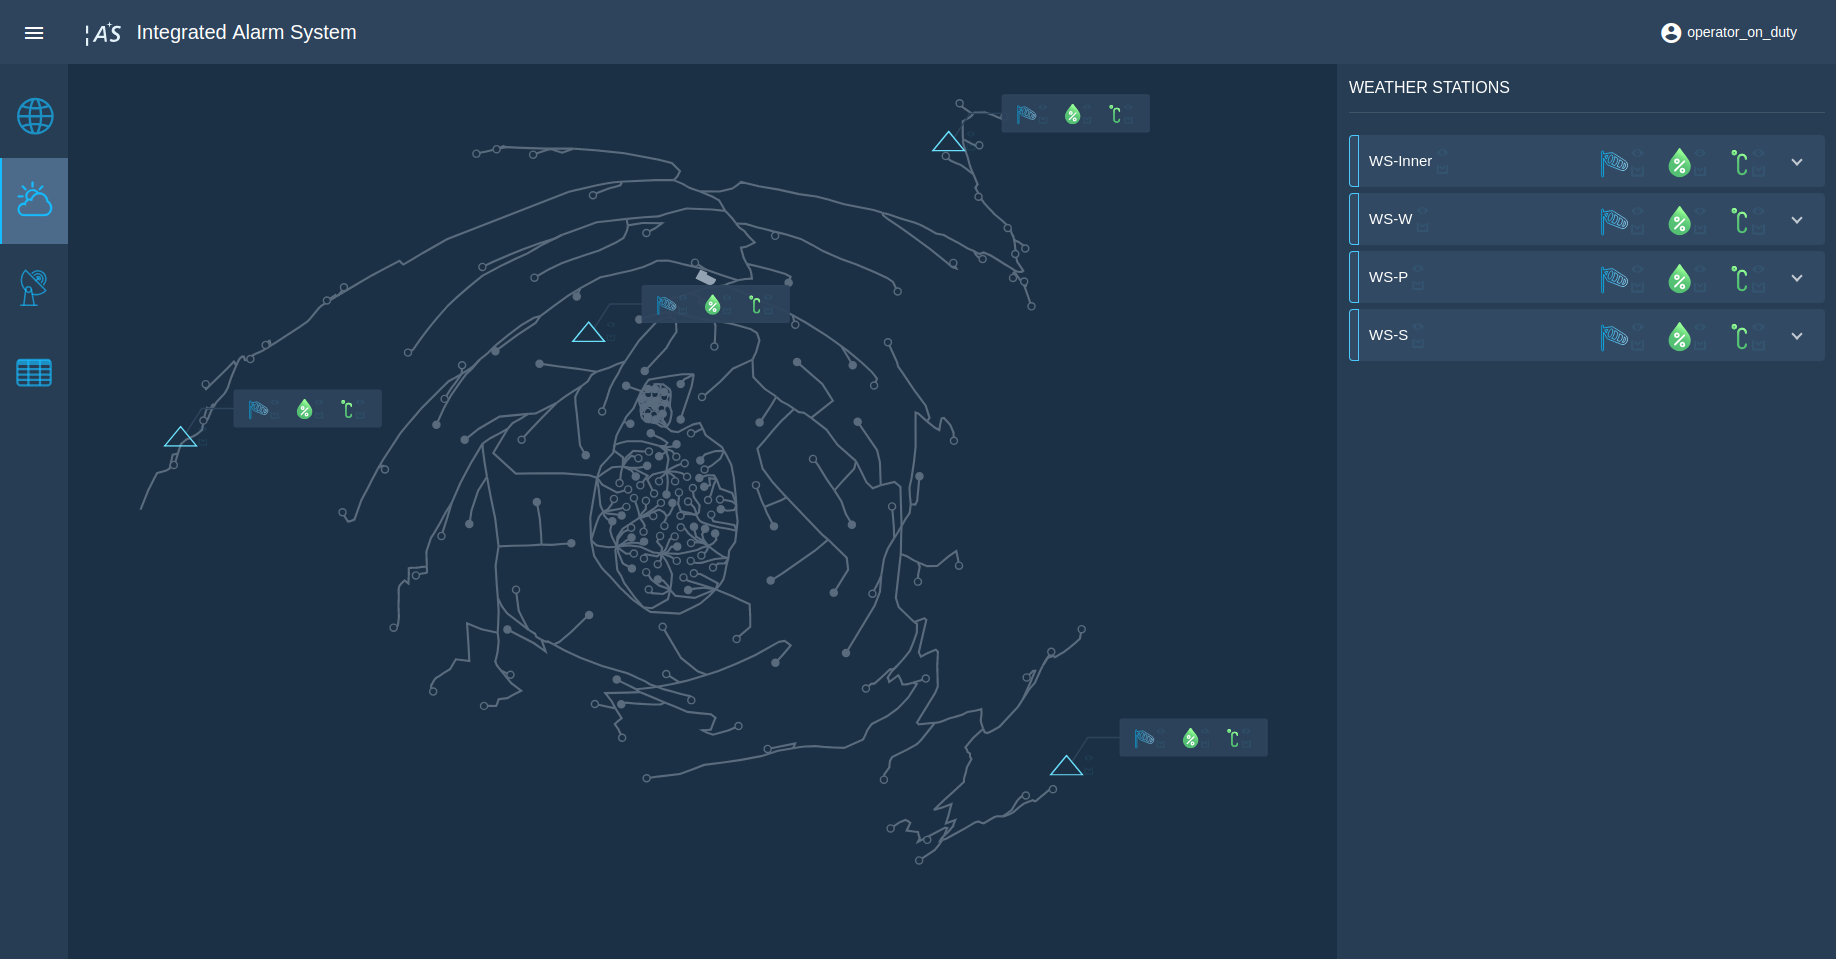
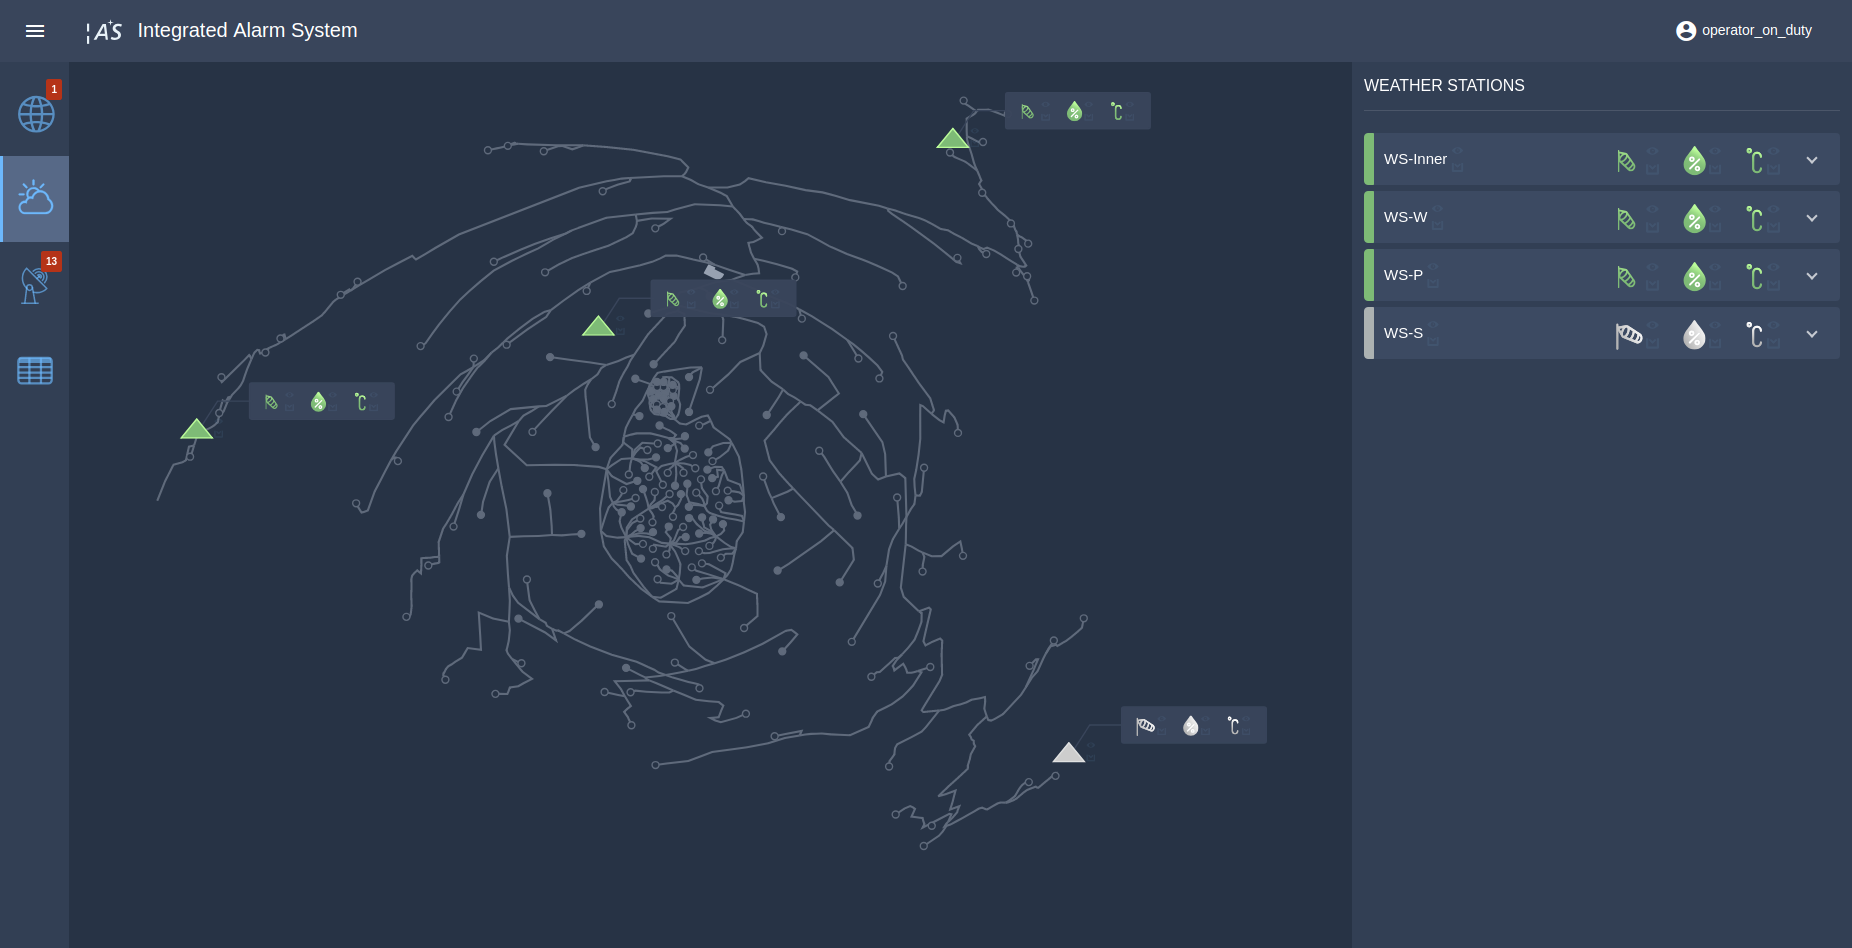
Update operations to include notifications and new antennas' alarms

diff --git a/docs/OPERATIONS_MANUAL.md b/docs/OPERATIONS_MANUAL.md
@@ -198,6 +198,12 @@ A navigation bar placed at the left of the screen can be used to explore the ava
 
 The *collapse menu button* available at the right of the toolbar, can be used to expand this component, to display the names of the views.
 
+Notifications labels are shown in each view's icon. They represent the number of
+set alarms that have not been acknowledged yet. The label disapears if all the alarms of that view are acknowledged.
+
+If the web application lost the connection with the server, the notifications
+appear in all the views, in blue color and with a question mark.
+
 ![Actions](./images/selected/nav_1.png)
 &nbsp;&nbsp;&nbsp;&nbsp;&nbsp;&nbsp;&nbsp;&nbsp;&nbsp;&nbsp;&nbsp;&nbsp;
 ![Actions](./images/selected/nav_2.png)
@@ -300,6 +306,12 @@ The antennas view shows the information about the alarms related to each antenna
 
 This view, uses a similar structure that the one is used for the weather stations.
 
+At the bottom of the antennas grid, there are three general alarms also related with the array. They are:
+
+- Master Laser Alarm
+- Correlator Alarm
+- Central Local Oscilator Alarm (CLO)
+
 ![Antennas Selected](./images/selected/antennas_selected.png)
 
 ***Sidebar***
@@ -311,6 +323,12 @@ When we access each antenna we can see a list of the related alarms. Currently, 
 - UPS Failure
 - HVAC Failure
 - Power Cut
+- Cryo temperature sensor 0
+- Cryo temperature sensor 5
+- Cryo temperature sensor 9
+- Cryo pressure sensor 0
+- Cryo pressure sensor 1
+- Compressor Driver OFF
 
 ***Antennas Map***
 
